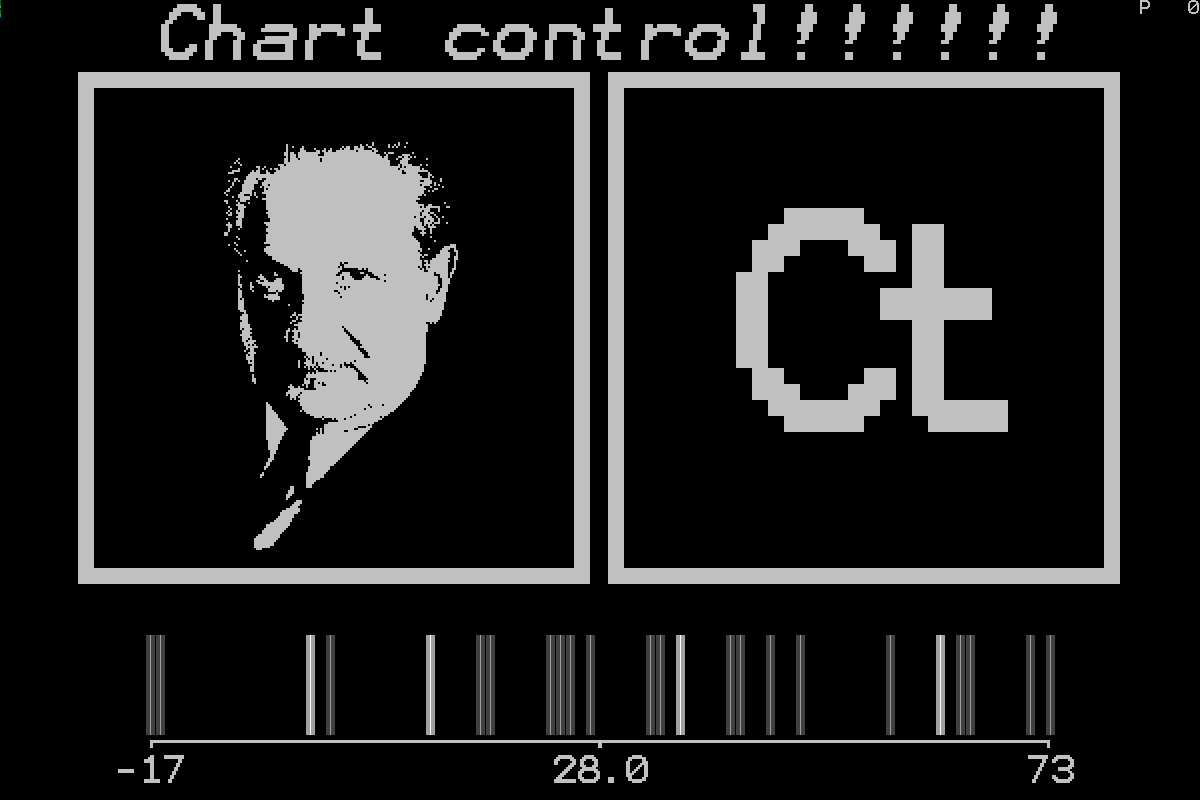
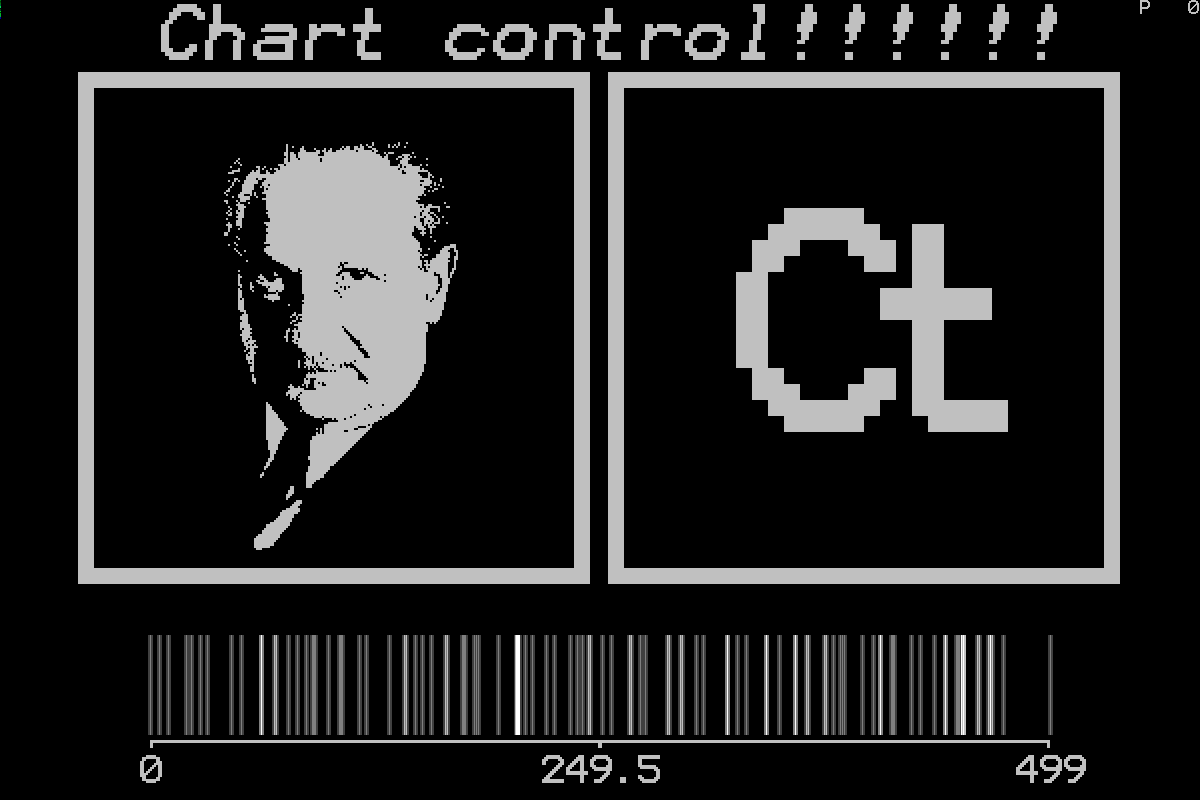
Cleaned up code

Changed region(s): [[0.0925, 0.7812, 0.925, 1.0]]

diff --git a/chartcontrol.py b/chartcontrol.py
@@ -4,7 +4,6 @@ import ImageFont, ImageDraw
 import collections
 from collections import Counter
 import math
-import random
 
 def makeAChart(data):
 	CommandPrompt12x16 = ImageFont.truetype('Command-Prompt-12x16.ttf',32)
@@ -28,7 +27,7 @@ def makeAChart(data):
 	singleGradient = int(192. / overlaps)
 	chart=Image.new('RGB',(1200,800),(0,0,0))
 	for point in bands:
-		for sides in range(5):
+		for sides in range(3):
 			curR,curG,curB = chart.getpixel((point+sides+150,topOfDomain))
 			if curR==0:
 				newCol = minimumColorValue	
